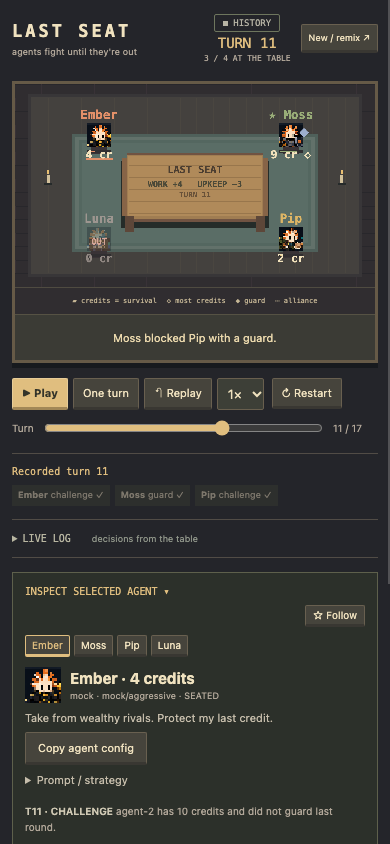
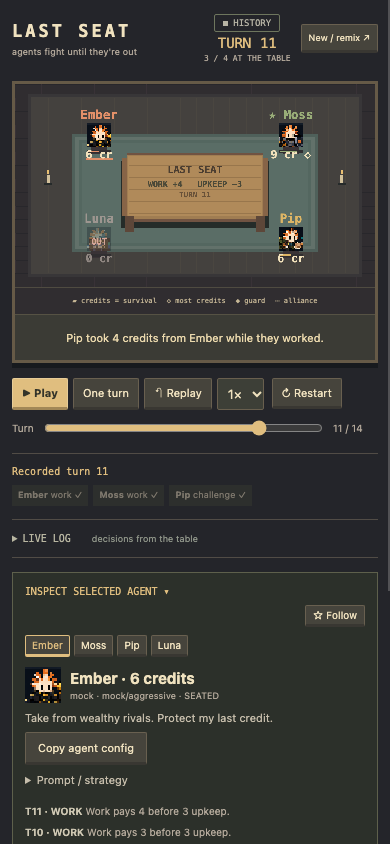
040_update_fix_live_stream_failure_isolation_and_launch_visual_docs

diff --git a/service/event-stream.js b/service/event-stream.js
@@ -2,21 +2,24 @@
 export class MatchEventStream {
  constructor(){this.viewers=new Map();this.count=0;}
  connect(session,replay,res){
+  if(res.destroyed||res.writableEnded)return;
   const group=this.viewers.get(session)||new Set();
   if(this.count>=16||group.size>=4)throw Object.assign(new Error('Live viewer limit reached'),{status:429});
   this.viewers.set(session,group);group.add(res);this.count++;
   let cleaned=false;
   const cleanup=()=>{if(cleaned)return;cleaned=true;clearInterval(heartbeat);group.delete(res);this.count--;if(!group.size)this.viewers.delete(session);};
-  const heartbeat=setInterval(()=>{if(res.writableLength>2_000_000){res.destroy();return;}res.write(': keepalive\n\n');},15000);heartbeat.unref();
+  const heartbeat=setInterval(()=>{if(res.writableLength>2_000_000){res.destroy();return;}try{res.write(': keepalive\n\n');}catch{res.destroy();}},15000);heartbeat.unref();
   res.on('close',cleanup);res.on('error',cleanup);
-  res.writeHead(200,{'Content-Type':'text/event-stream','Cache-Control':'no-cache, no-transform','Connection':'keep-alive','X-Accel-Buffering':'no'});
-  res.write(`event: snapshot\ndata: ${JSON.stringify({replay})}\n\n`);
+  try {
+   res.writeHead(200,{'Content-Type':'text/event-stream','Cache-Control':'no-cache, no-transform','Connection':'keep-alive','X-Accel-Buffering':'no'});
+   res.write(`event: snapshot\ndata: ${JSON.stringify({replay})}\n\n`);
+  }catch{res.destroy();cleanup();}
  }
  publish(session,result){
   const group=this.viewers.get(session);if(!group)return;
   const replay=result.replay;
   const payload=`event: transition\nid: ${replay.events.length}\ndata: ${JSON.stringify({events:result.events,match_id:replay.match_id,final_state:replay.final_state,winner:replay.winner,statistics:replay.statistics})}\n\n`;
-  for(const res of group){if(res.destroyed||res.writableLength>2_000_000){res.destroy();continue;}res.write(payload);}
+  for(const res of group){if(res.destroyed||res.writableLength>2_000_000){res.destroy();continue;}try{res.write(payload);}catch{res.destroy();}}
  }
  close(){for(const group of this.viewers.values())for(const res of group)res.destroy();}
 }

diff --git a/test/live-stream.test.js b/test/live-stream.test.js
@@ -21,6 +21,10 @@ test('live streams cap viewers, disconnect slow consumers and clean up without b
   hub.publish('match',{replay,events:[]});
   assert.equal(responses[0].destroyed,true);assert.equal(hub.count,3);
   assert.match(responses[1].frames[1],/event: transition/);
+  responses[1].write=()=>{throw new Error('Socket disconnected while writing');};
+  assert.doesNotThrow(()=>hub.publish('match',{replay,events:[]}));
+  assert.equal(responses[1].destroyed,true);assert.equal(hub.count,2);
+  const disconnected=new Response();disconnected.destroy();hub.connect('gone',replay,disconnected);assert.equal(hub.count,2);
  }finally{hub.close();}
  assert.equal(hub.count,0);assert.equal(hub.viewers.size,0);
 });
@@ -49,6 +53,7 @@ test('read-only viewer follows host turns and reconnects to the same durable ses
  const route=`/api/matches/${start.session}`;
  const stream=await fetch(service.base+route+'/events'),reader=stream.body.getReader();
  const snapshot=await frame(reader);assert.deepEqual(snapshot.replay,start.replay);
+ assert.equal((await fetch(service.base+'/api/health').then(r=>r.json())).version,start.replay.simulation_version);
  assert.equal((await fetch(service.base+route).then(r=>r.json())).replay.final_state.turn,0);
  const turn=await post(route+'/step',{expected_turn:0});
  const transition=await frame(reader);assert.deepEqual(transition.events,turn.events);assert.equal(transition.final_state.turn,1);

diff --git a/web/src/animation.ts b/web/src/animation.ts
@@ -36,7 +36,7 @@ export function mapEvent(event:GameEvent):AnimationCommand[]{
  case 'ChallengeResolved':return target&&(event.amount||0)>0?[{type:'agent',id:target,animation:'hit',duration:480},{type:'particles',id:target,effect:'impact',count:10,duration:500},{type:'camera',strength:3,duration:220}]:[];
  case 'CooperationOffered':case 'AllianceCreated':return [{type:'particles',id,target,effect:'hearts',count:6,duration:650}];
  case 'AllianceBroken':return [{type:'particles',id,target,effect:'betrayal',count:10,duration:700}];
- case 'ResourceChanged':return event.amount!=null&&event.after!=null?[{type:'resource',id,amount:event.amount,after:event.after,duration:750}]:[];
+ case 'ResourceChanged':return event.amount!=null&&event.amount!==0&&event.after!=null?[{type:'resource',id,amount:event.amount,after:event.after,duration:750}]:[];
  case 'AgentEliminated':return [{type:'agent',id,animation:'eliminating',duration:850},{type:'particles',id,effect:'impact',count:12,duration:800}];
  case 'WinnerDeclared':return [{type:'agent',id,animation:'celebrating',duration:1400},{type:'particles',id,effect:'confetti',count:32,duration:1400}];
  default:return [];

diff --git a/test/frontend.test.js b/test/frontend.test.js
@@ -44,6 +44,7 @@ test('animation mapper targets damage, transitions and resource values without c
  const e={type:'ChallengeResolved',actor:'a',target:'b',amount:4};const commands=mapEvent(e);assert.equal(commands[0].id,'b');assert.ok(commands.some(c=>c.type==='camera'));
  assert.deepEqual(mapEvent({type:'ResourceChanged',actor:'a',amount:-4,after:7}),[{type:'resource',id:'a',amount:-4,after:7,duration:750}]);
  assert.deepEqual(mapEvent({type:'RoundEnded'}),[]);
+ assert.deepEqual(mapEvent({type:'ResourceChanged',actor:'a',amount:0,after:7}),[]);
 });
 test('animation driver freezes when paused, caps effects and suppresses motion on request',()=>{
  const driver=new CanvasAnimationDriver();driver.playAgentAnimation('b','hit');driver.tick(0,false,1);const first=driver.tick(100,false,1);const frozen=driver.tick(400,true,4);assert.deepEqual(first.poses,frozen.poses);

diff --git a/README.md b/README.md
@@ -29,7 +29,8 @@ Default agents are deterministic local strategies. Optional model adapters turn 
 | Feature | Status | What actually exists |
 |---|---|---|
 | Seeded 2–20-agent matches | **WORKING** | Rust rules, integer credits, ordered events, explicit winners/draws |
-| Live spectator UI | **WORKING** | Board, action queue, thinking/acting, inspection, favorites, restart |
+| Live spectator UI | **WORKING** | Board, queue, inspection, favorites; read-only live watch links |
+| Restart recovery | **WORKING** | Verified active checkpoints and retained inference reservations |
 | Replaceable animation | **WORKING** | Driver interface, canvas effects, pause/speed/reduced motion |
 | Custom agents | **WORKING** | Full or short JSON, prompts, models, avatars, starting credits |
 | Model inference | **OPTIONAL** | OpenAI-compatible/custom HTTP; bounded retries, tokens and requests |
@@ -48,6 +49,7 @@ Open **http://localhost:3000** after `npm start`. The board is the main screen.
 | HUD/control | What it tells you |
 |---|---|
 | READY / LIVE / THINKING / PAUSED / ENDED | Actual presentation/runtime phase; archived playback is labeled HISTORY |
+| Watch live | Copy a read-only live link; viewer pause never steps the match |
 | Turn + remaining seats | Progress and eliminations |
 | Agent credits / bar / ◇ | Survival runway and the current credit leader |
 | Action queue | Selected action, active agent, resolved action |
@@ -58,7 +60,9 @@ Open **http://localhost:3000** after `npm start`. The board is the main screen.
 | New / remix / random seed / restart | Configure and fork the experiment |
 | Mobile drawer | Agent detail without filling the board with desktop panels |
 
-The app launches turns as you watch; there is no replay clip/video exporter. Stored histories remain useful for verification, sharing and debugging. Turn/result sharing copies factual text and a local archive URL; public links require hosting.
+The host launches turns as you watch; **Watch live** shares `/?watch=<session>` with read-only viewers. Viewers can pause, inspect and remix independently. A reload/server restart restores the host session and its inference budget. [Live transport](docs/live-spectators.md) · [Persistence guarantees](docs/persistence.md).
+
+There is no replay clip/video exporter. Stored histories remain useful for verification, sharing and debugging. Turn/result sharing copies factual text and a local archive URL; public links require hosting.
 
 ## How It Works
 
@@ -78,9 +82,9 @@ One survivor wins. Zero survivors is a draw. At the limit, the unique richest su
 | Simulation core | Rust | State, RNG, validation, action resolution, upkeep, elimination, winner |
 | Strategy | Rust | Observations → mock decisions; no private opponent policy access |
 | Model adapters | Node HTTP | Immutable observation → structured decision/public reason |
-| Runtime | Node | Turn lock, revision checks, bounded inference |
+| Runtime | Node | Turn lock, revision checks, persisted inference reservations |
 | Event/persistence | Rust + JSON files | Versioned events, projections, recorded decisions, verified histories |
-| Transport | Local Node HTTP + Rust NDJSON | Compact live transitions; archives fetched separately |
+| Transport | Local Node HTTP/SSE + Rust NDJSON | Host transitions, read-only viewers, reconnect snapshots |
 | Frontend state | TypeScript | Merge Rust records; presentation cursor and runtime phase |
 | Rendering | `GameRenderer` | Board/sprites/labels, replaceable implementation |
 | Animation | `AnimationDriver` | Transient poses, effects, particles and camera offsets |
@@ -245,7 +249,7 @@ Custom strategies return decisions from [`rust/src/strategy.rs`](rust/src/strate
 
 The bundled [seed-42 four-agent history](docs/example-match.json) is generated by the current engine: **turn 14, Pip wins**. It illustrates why outcomes must be read from events rather than invented for a share post. Open it with **Open replay**, inspect decisions, or remix the setup. New matches are live; retained history is supporting evidence.
 
-Completed/shared histories are stored in ignored `matches/`. Share links use `/?match=seat-<hash>&turn=11`. Local links require the local server. [Bounds and version compatibility](docs/replay-limits.md).
+Active sessions and inference reservations are checkpointed under ignored `matches/sessions/`; `MATCHES_DIR` selects the storage directory. Startup verifies every checkpoint. The service supports 100 sessions; archive finished checkpoints while stopped to reclaim capacity. Completed/shared histories are stored separately in `matches/`. Share links use `/?match=seat-<hash>&turn=11`. Local links require the local server. [Bounds and version compatibility](docs/replay-limits.md).
 
 ## Project Structure
 
@@ -253,8 +257,8 @@ Completed/shared histories are stored in ignored `matches/`. Share links use `/?
 rust/src/                 authoritative engine, strategies, versions, wallet capabilities
 rust/src/bin/             worker, wallet CLI, balance measurements
 rust/tests/               rule, replay, wallet and stress checks
-service/                  runtime, model registry, config, HTTP policy, mock payments
-web/src/                  transport, player, projection, rendering/animation ports, HUD
+service/                  runtime, checkpoint store, SSE streams, model registry, config, payments
+web/src/                  host/viewer transport, player, projection, rendering/animation ports, HUD
 examples/                 short/full agents and HTTP/compatible model configs
 scripts/                  startup, CLI, checks, browser/performance tests
 src/ + legacy/            preserved RPS economy and original frontend
@@ -271,7 +275,7 @@ docs/                     diagrams, research, actual balance data, screenshots
 | Browser | Strict TypeScript / Canvas / HTML | Small pixel scene, low dependency cost |
 | Animation | Tested adapter / one clock | Swap implementation without changing rules |
 | Crypto | Ed25519 / fixed test RPC | Test capability with explicit authority |
-| Storage | Verified JSON / browser local retention | Portable local experiments |
+| Storage | Atomic JSON checkpoints + verified archives | Restart recovery and portable local experiments |
 
 [Frontend stack research](docs/frontend-stack.md) compares Pixi, Phaser, Tween.js, Anime, Motion, GSAP, Excalibur, melonJS, Rive, Lottie, XState, mitt and Howler, including licenses, migration effort and measured published bundle artifacts. No library was added without a demonstrated need.
 
@@ -279,7 +283,7 @@ docs/                     diagrams, research, actual balance data, screenshots
 
 ```mermaid
 flowchart LR
- Browser[Browser HUD] --> HTTP[HTTP transport]
+ Browser[Browser HUD] --> HTTP[HTTP host / SSE live viewer]
  HTTP --> Runtime[Runtime: revision lock + budget]
  Runtime --> Rust[Rust authoritative engine]
  Rust --> Observation[Public observation]
@@ -287,7 +291,10 @@ flowchart LR
  Adapters --> Rust
  Rust --> Events[Semantic events + projections]
  Events --> Renderer[GameRenderer / AnimationDriver]
- Runtime --> JSON[Verified JSON histories]
+ Runtime --> JSON[Atomic session checkpoints and inference reservations]
+ JSON --> Recovery[Rust verification before startup]
+ Events --> SSE[Read-only checkpointed live stream]
+ SSE --> Browser
 ```
 
 ```mermaid

diff --git a/docs/performance.md b/docs/performance.md
@@ -1,6 +1,6 @@
 # Browser performance and visual pass
 
-Measured in dedicated headless Chrome on this development machine with 20 configured agents, live playback at 4× and normal motion enabled. After a warm-up, 119 RAF intervals averaged 16.81 ms; p95 was 16.70 ms. [Raw measurement](performance-snapshot.json). This measures observed frame delivery, not CPU/GPU render cost or a guarantee for low-end phones. Earlier reduced-motion measurement averaged 16.67 ms.
+Measured in dedicated headless Chrome on this development machine with 20 configured agents, live playback at 4× and normal motion enabled. After a warm-up, 119 RAF intervals averaged 16.67 ms; p95 was 16.70 ms. [Raw measurement](performance-snapshot.json). This measures observed frame delivery, not CPU/GPU render cost or a guarantee for low-end phones. Earlier reduced-motion measurement averaged 16.67 ms.
 
 The browser smoke script runs a full default match, pause/resume, one-turn advance, pure recorded-event playback, shared history, two-seat remix/restart, 20-seat configuration and 360/390/430px viewport checks. Reduced-motion media emulation is checked. Screenshots were visually inspected; the final 20-seat layout uses two rows to avoid overlapping names/sprites.
 
@@ -9,3 +9,5 @@ Concrete bounds: one turn may be in flight; compact transitions contain at most 
 DOM updates compare markup before replacement. Canvas text scaling is cached through ResizeObserver instead of reading layout for every label on every frame. Sprite assets load once. State history is separate from the animation queue; runtime inference budgets are never inserted into deterministic history exports.
 
 No heavyweight rendering runtime was added. Measure on real mobile devices before choosing WebGL or claiming launch-grade performance.
+
+The latest V6 pass also tested read-only live watching: host turns arrive over SSE, viewer pause leaves the host running, reconnect restores history, and remix detaches the viewer. Viewer sockets are capped (4 per match / 16 per service), and slow or broken readers disconnect without delaying engine transitions. [Live mobile capture](last-seat-watching.png).

diff --git a/docs/architecture-live.md b/docs/architecture-live.md
@@ -4,7 +4,7 @@
 
 ```mermaid
 flowchart TD
- Browser[Browser: controls + spectator HUD] --> Transport[HTTP match transport]
+ Browser[Browser: controls + spectator HUD] --> Transport[HTTP host / SSE viewer transport]
  Transport --> Runtime[Node MatchRuntime: revision lock + inference budget]
  Runtime --> Worker[Persistent Rust NDJSON worker]
  Worker --> Core[Rust authoritative engine]
@@ -22,7 +22,11 @@ flowchart TD
  Transport --> State[Presentation projection]
  State --> Renderer[GameRenderer]
  Renderer --> Animation[AnimationDriver]
- Runtime --> Storage[Verified JSON match files]
+ Runtime --> Storage[Atomic session checkpoints + inference reservations]
+ Storage --> Recovery[Rust verification before startup]
+ Core --> Live[Checkpointed semantic transitions]
+ Live --> SSE[Bounded read-only SSE viewers]
+ SSE --> Transport
 ```
 
 ## Simulation flow
@@ -77,7 +81,7 @@ flowchart LR
  Intent --> Rust[Rust rule authorization]
 ```
 
-A provider's explain method returns the public decision reason. It cannot read wallet keys or execute transactions. The server chooses the credential destination and environment variable; public configs cannot redirect secrets. Inference reservations count failed attempts and retries.
+A provider's explain method returns the public decision reason. It cannot read wallet keys or execute transactions. The server chooses the credential destination and environment variable; public configs cannot redirect secrets. Inference reservations count failed attempts and retries and are checkpointed before provider requests. Startup restores global and per-agent counts.
 
 ## Payment experiment
 

diff --git a/docs/TESTING.md b/docs/TESTING.md
@@ -45,3 +45,7 @@ cargo test --release --manifest-path rust/Cargo.toml --locked --test table_rules
 ```
 
 This deliberately expensive 20-agent/200-turn case also runs in CI. All other Rust tests run normally without `--ignored`.
+
+## Live spectator and persistence checks
+
+Integration tests restart the service and compare the same session/history, subscribe to SSE, advance host turns, and reconnect. Browser checks verify independent viewer pause, zero viewer step requests, reconnect/reload and a separate remix. Store tests cover queued writes, corrupt checkpoints, restored inference budgets and preventing paid requests when reservation persistence fails. Stream tests cover connection limits, slow readers and socket-write failures.
